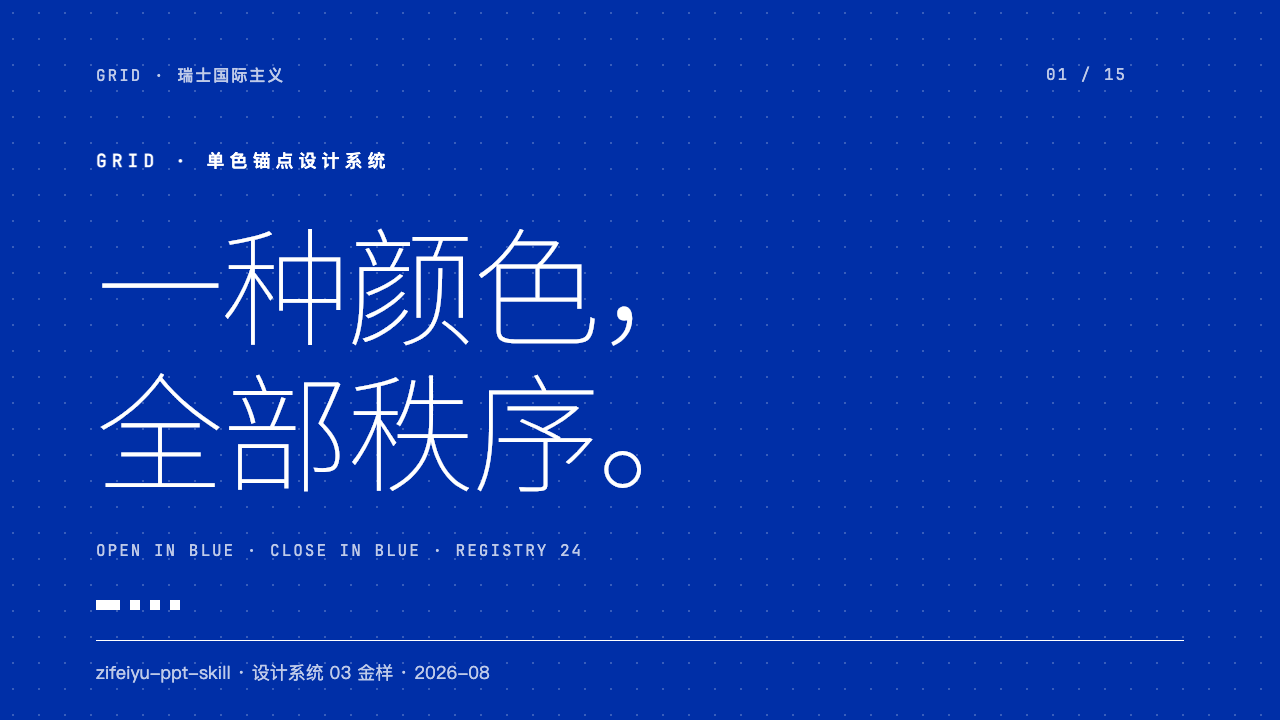
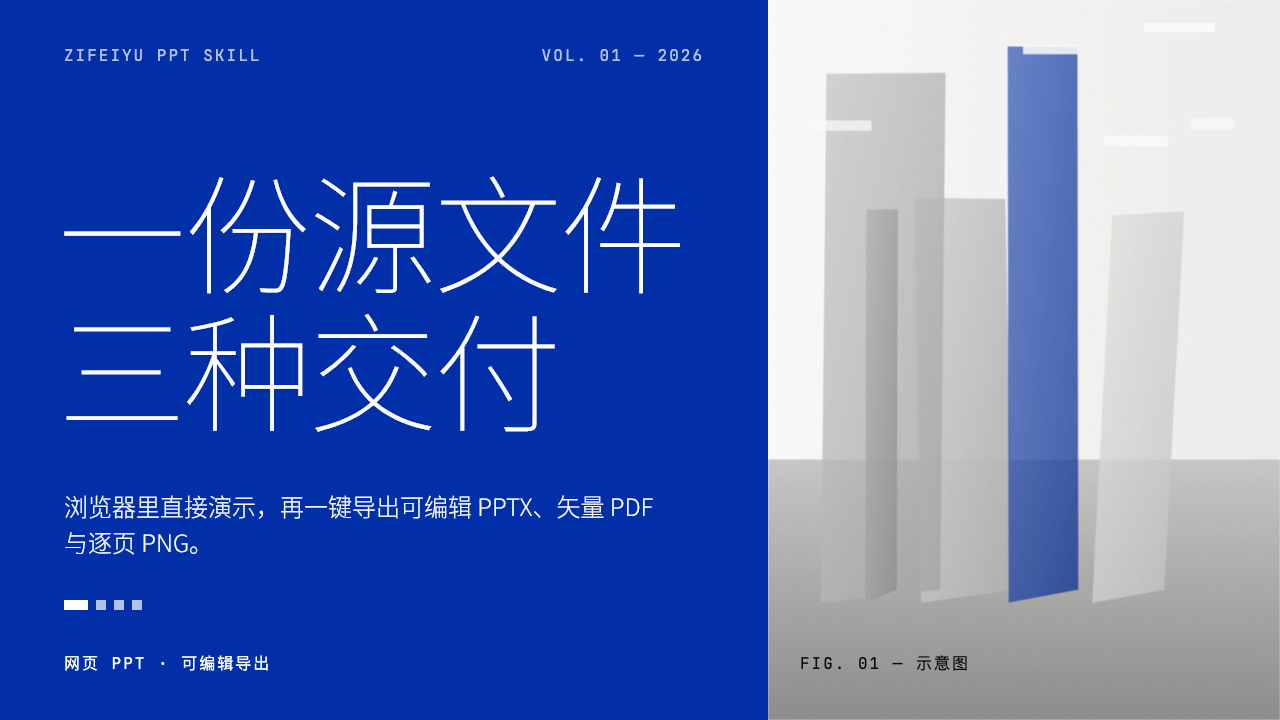
Ship style B swiss: ready, baseline, gallery, CI, docs

diff --git a/docs/styles/index.html b/docs/styles/index.html
@@ -48,7 +48,7 @@
       <figure class="card">
         <img src="swiss.png" alt="瑞士 · 网格 封面">
         <figcaption>
-          <p class="name"><b>B</b>瑞士 · 网格<span class="badge">draft</span></p>
+          <p class="name"><b>B</b>瑞士 · 网格</p>
           <p class="meta"><code>--style swiss</code> · 数据 / 发布 / 技术</p>
         </figcaption>
       </figure>

diff --git a/ARCHITECTURE.md b/ARCHITECTURE.md
@@ -217,6 +217,7 @@ PPTX 导出后重新截图与 HTML 逐页比对，字体回退导致的溢出逐
 
 - **M10 · 风格库平台（P0）**：风格包结构（style.css / layouts.md / manifest.json / golden）与 20 角色层；base.css 瘦身为共用底座，旧设计层迁入 `assets/legacy/`；测量与导出新增圆角、描边、燕尾箭头、旋转、阴影、竖排、单元素隔离截图（顺带修掉 cover 图截图把遮罩文字烤进图片的旧问题）；文本框合并与动画改为骨架声明（`data-merge` / `data-anim`）；校验器 style 模式 + R16 导出一致性；`check-style` / `gen-art` / `style-gallery` / `regress.mjs`；swiss 原样迁成第一个风格包，像素回归 15/15 页 0.00%，PPTX 文本框结构逐页一致；`node --test` 单测进 CI。P1–P3 按 spec 交付其余 11 种风格。
 - **M11 · 风格 A 杂志（P1）**：第一个 ready 风格，18 个版式覆盖 12 个核心角色 + matrix / bars / table / gallery / video / audio；12 种风格共用的金样文字 `docs/golden-content.md`；数字改用 Playfair 等高数字（Office 映射 Times New Roman）；导出器补上整段斜体；gen-art 支持 JPEG 输出（金样配图从 MB 级降到几十 KB）。
+- **M12 · 风格 B 瑞士重做（P1）**：swiss 按确认样张重做为 17 个版式（12 栏网格、单一克莱因蓝、极细巨字、方块刻度），覆盖 12 个核心角色 + matrix / bars / table / cycle / system，新增蓝页 / 墨页两种页面状态；Inter 进字体源（Office 映射 Segoe UI）；旧 legacy `swiss` 设计系统随之退役。
 
 ## 9. 风险与对策
 

diff --git a/styles/swiss/layouts.md b/styles/swiss/layouts.md
@@ -1,6 +1,6 @@
 # 瑞士 · 网格（swiss）版式注册表
 
-> 状态：draft · P1 重做中，已有 17 个版式；其余核心角色未完成前，交付请用其他风格。
+> 状态：ready · 17 个版式，覆盖全部 12 个核心角色 + matrix / bars / table / cycle / system。
 
 规则：整块复制骨架，只替换文字与图片路径；不得增删结构、不得改类名。骨架上的 `data-layout / data-role / data-merge / data-anim / data-source / data-value / data-label / data-chart / data-media` 是导出与动画的声明，原样保留（说明见 `references/roles.md`）。金样：`styles/swiss/golden/`；金样文字来自 `docs/golden-content.md`。
 

diff --git a/README.en.md b/README.en.md
@@ -8,7 +8,7 @@ The one-line difference from similar projects: beautiful HTML decks usually can'
 
 ## Style library
 
-12 styles, each with its own layout set — pick one at intake. Shipped: A Magazine; the rest follow the phased spec (`docs/superpowers/specs/2026-10-08-style-library-design.md`).
+12 styles, each with its own layout set — pick one at intake. Shipped: A Magazine, B Swiss; the rest follow the phased spec (`docs/superpowers/specs/2026-10-08-style-library-design.md`).
 
 ![style library](docs/styles/gallery.png)
 

diff --git a/README.md b/README.md
@@ -10,7 +10,7 @@
 
 ## 风格库
 
-12 种风格、每种独立版式集，开场先挑风格；已交付：A 杂志 · 暖纸，其余按 `docs/superpowers/specs/2026-10-08-style-library-design.md` 分期交付。
+12 种风格、每种独立版式集，开场先挑风格；已交付：A 杂志 · 暖纸、B 瑞士 · 网格，其余按 `docs/superpowers/specs/2026-10-08-style-library-design.md` 分期交付。
 
 ![风格库](docs/styles/gallery.png)
 
